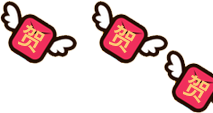
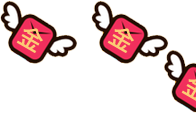
微信端头部背景图修改，新用户注册图片更换

Changed region(s): [[0.4286, 0.0, 1.0, 1.0], [0.0, 0.0, 0.398, 0.5841]]

diff --git a/css/layout.css b/css/layout.css
@@ -543,7 +543,8 @@
   background: url(../images/wx-top-bg.png) 0 0 no-repeat;
   background-size: cover;
   overflow: hidden;
-  min-height: 290px;
+  min-height: 260px;
+  position: relative;
 }
 .wx-top-bg img{
   display: block;
@@ -604,9 +605,6 @@
   white-space: nowrap;
   text-overflow: ellipsis;
 }
-.wx-top-bg img.m30{
-  margin: 30px auto;
-}
 .lingqu-info{
   position: relative;
   color: #fc0;
@@ -641,11 +639,11 @@
   text-align: center;
 }
 .wx-top-bg img.wx-new-bag{
-  width: 107px;
+  width: 98px;
   height: 57px;
   position: absolute;
   right: 0;
-  top: 160px;
+  bottom: 10px;
   margin: 0;
 }
 .wx-new-form{

diff --git a/wx-xinyonghu.html b/wx-xinyonghu.html
@@ -15,9 +15,8 @@
 <body class="fff">
 <div class="content">
   <div class="wx-top-bg">
-    <img src="images/wx-new.png" class="m30" width="232" height="113">
+    <img src="images/wx-new.png" class="m30" width="277" height="124">
     <img src="images/wx-new-bag.png" class="wx-new-bag">
-    <a href="###" class="intro">通联钱包介绍&nbsp;&nbsp;></a>
   </div>
   <ul class="wx-new-form">
     <li>

diff --git a/wx-yilingqu.html b/wx-yilingqu.html
@@ -16,7 +16,6 @@
 <div class="content">
   <div class="wx-top-bg">
     <img src="images/wx-yilingqu.png" width="190" height="70">
-    <a href="###" class="intro">通联钱包介绍&nbsp;&nbsp;></a>
     <input type="button" value="下载通联钱包使用">
   </div>
   <img class="wx-card-top" src="images/succ-top.png">

diff --git a/wx-qiangguang.html b/wx-qiangguang.html
@@ -16,7 +16,6 @@
 <div class="content">
   <div class="wx-top-bg">
     <img src="images/wx-qiangguang.png" width="215" height="68">
-    <a href="###" class="intro">通联钱包介绍</a>
     <input type="button" value="下载通联钱包使用">
   </div>
   <img class="wx-card-top" src="images/succ-top.png">

diff --git a/wx-guoqi.html b/wx-guoqi.html
@@ -16,7 +16,6 @@
 <div class="content">
   <div class="wx-top-bg">
     <img src="images/wx-guoqi.png" width="160" height="65">
-    <a href="###" class="intro">通联钱包介绍</a>
     <input type="button" value="下载通联钱包使用">
   </div>
   <img class="wx-card-top" src="images/succ-top.png">

diff --git a/wx-lingqu.html b/wx-lingqu.html
@@ -22,7 +22,6 @@
         <span class="num">9999</span>
       </div>
     </div>
-    <a href="###" class="intro">通联钱包介绍</a>
     <input type="button" value="下载通联钱包使用">
   </div>
   <img class="wx-card-top" src="images/succ-top.png">
